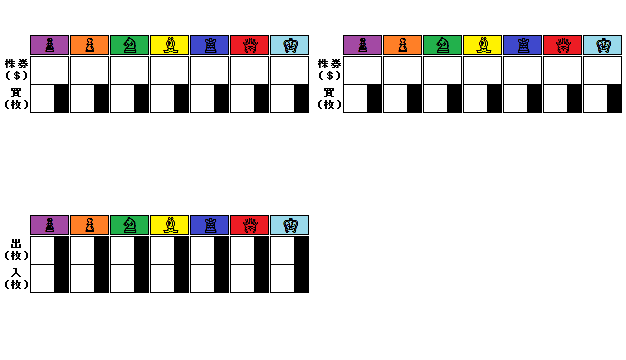
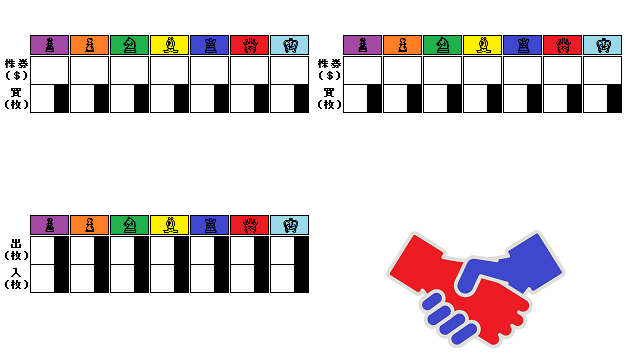
commit

Changed region(s): [[0.607, 0.6417, 0.9105, 0.9778]]

diff --git a/acquiso/view/Game.js b/acquiso/view/Game.js
@@ -224,6 +224,8 @@ Game.isFinish = function (game) {
         }
     }
 
+    if (!haveHotelChain) isFinish = false;
+
     return isFinish;
 }
 
@@ -404,6 +406,7 @@ Game.addCommand = function (game) {
                     this.addLabel('親チェーンを選択して下さい。', 600, 415);
                     break;
                 case Phase.Merge:
+                    this.addSprite('view/skin.png', 3, 525, 338, 313, 180);
                     this.addSprite('view/button.png', 8, 552, 348, 80, 25, function () {
                         Game.send('l');
                     });
@@ -689,7 +692,7 @@ Game.addBuyCommand = function (game) {
                 return function () {
                     if (
                            Game.buy.ticket > 0
-                        && game.certificate[_i] - Game.buy.output[_i] > 0
+                        && game.certificate[_i] - Game.buy.output[_i] >= 0
                         && game.playerList[game.priority].money - (Game.buy.sum + _stockPrice) > 0
                     ) {
                         Game.buy.output[_i]++;
